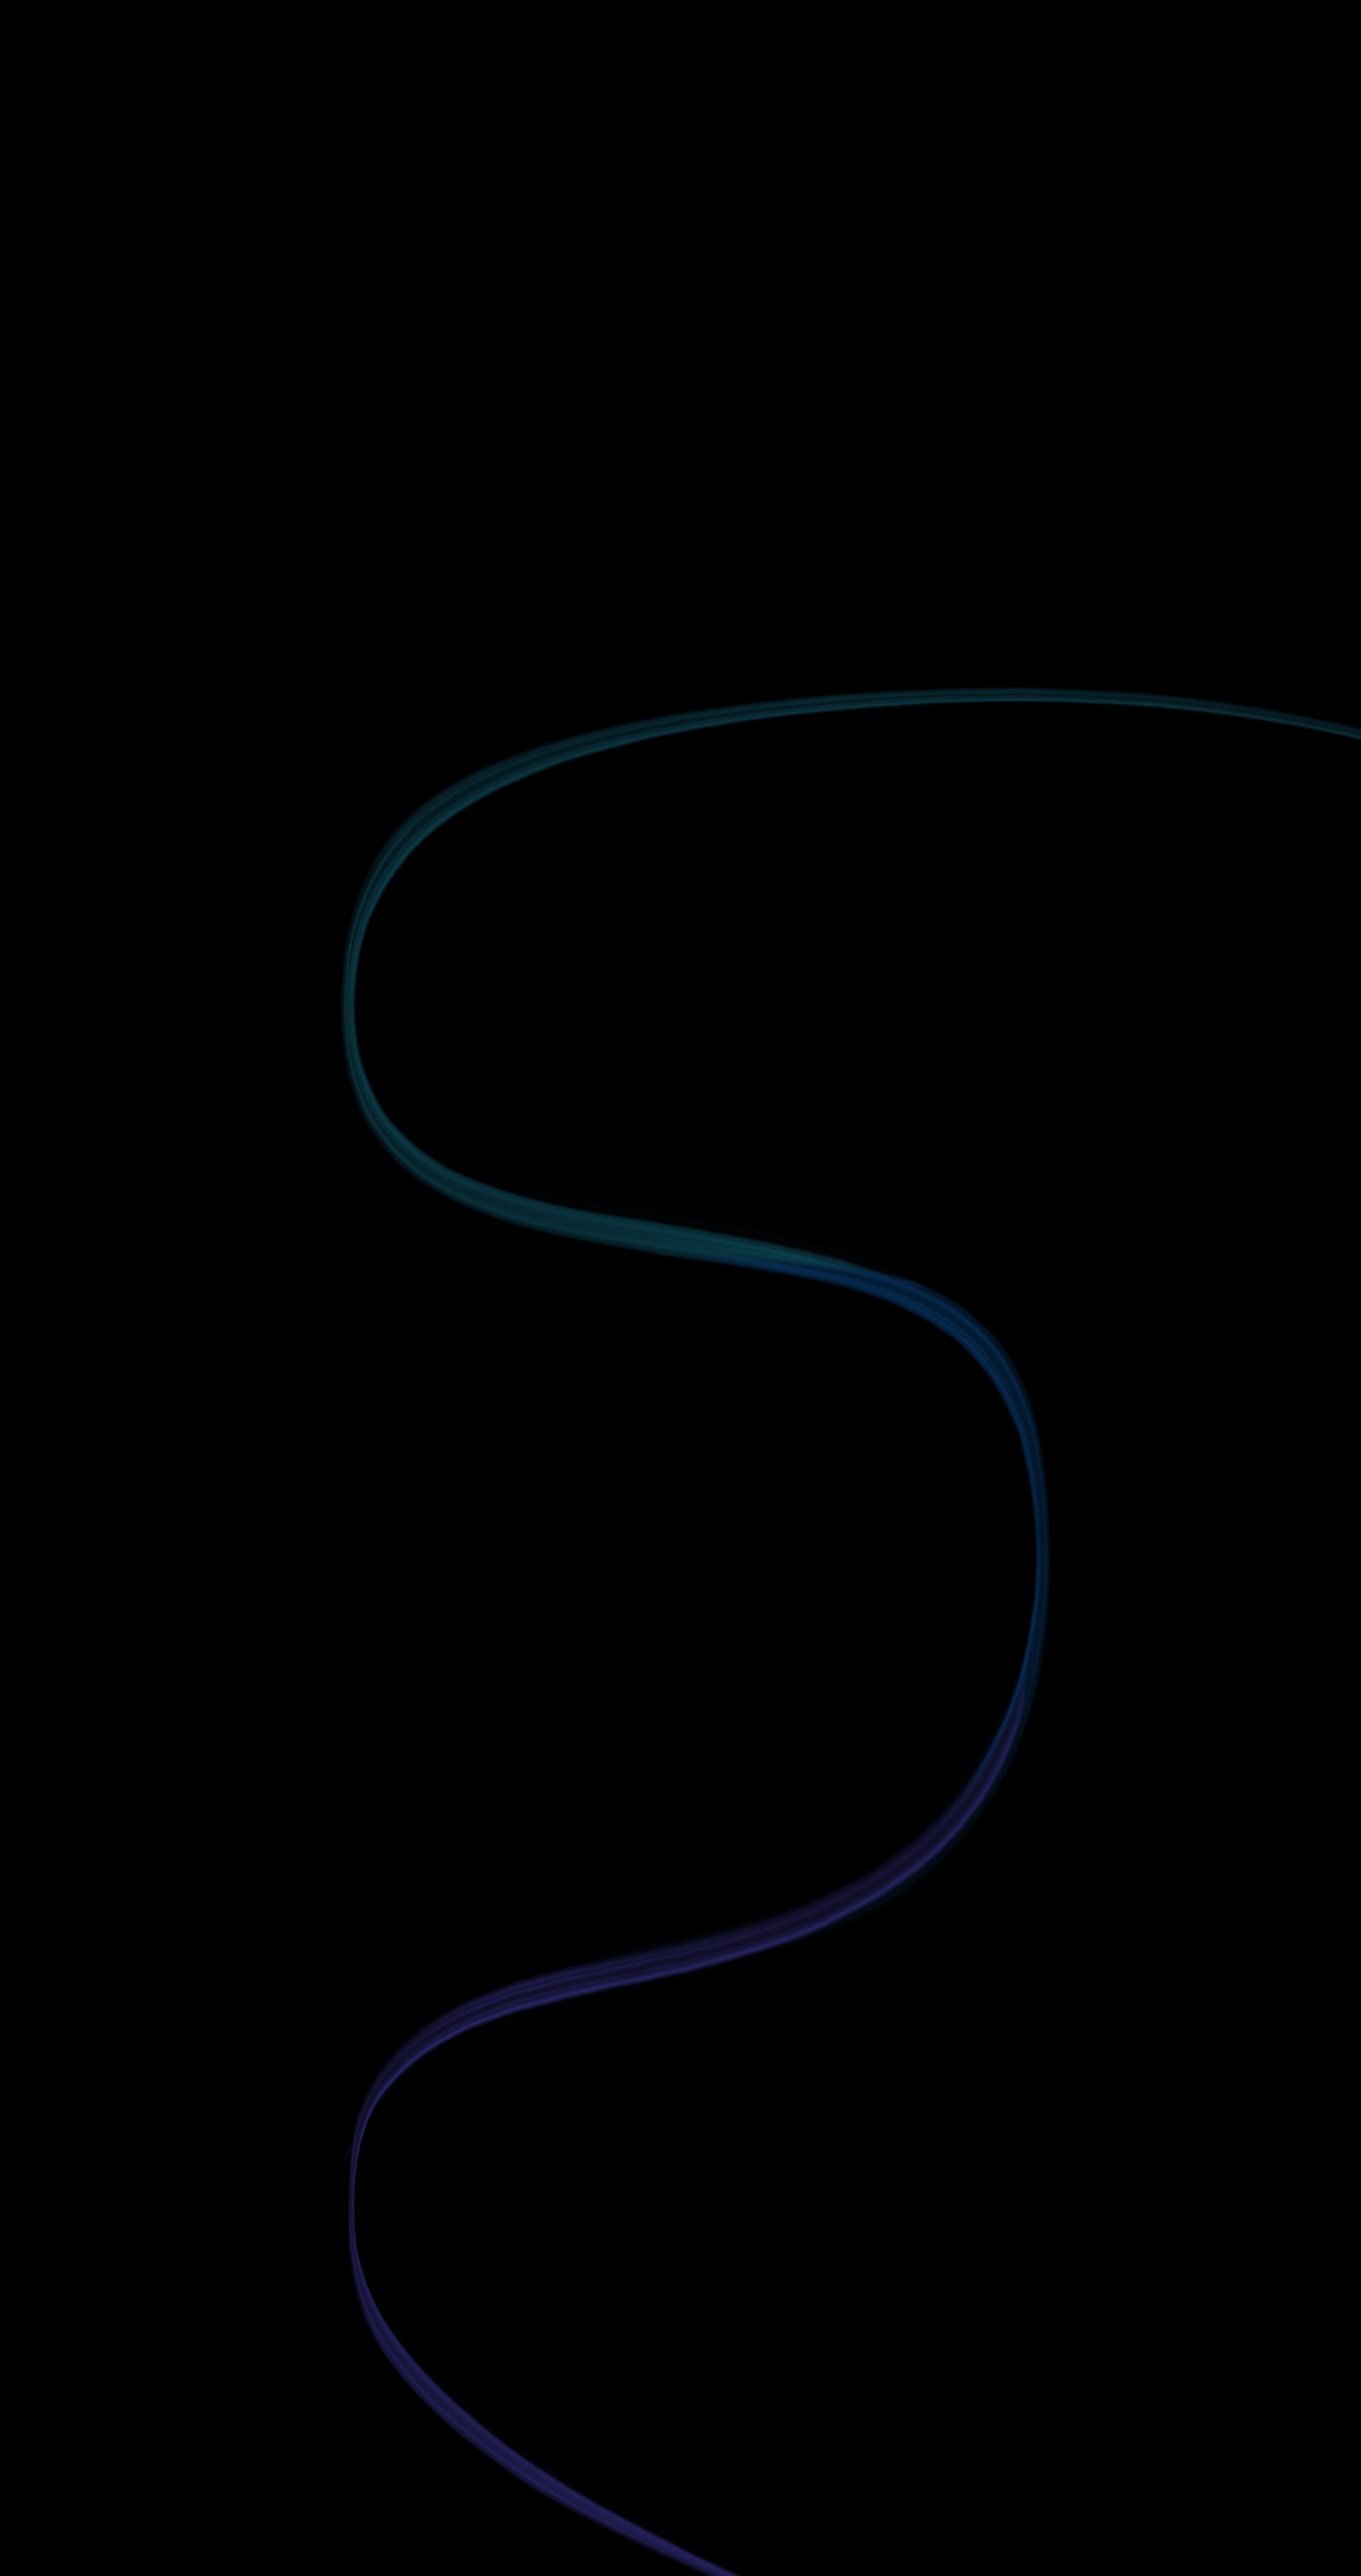
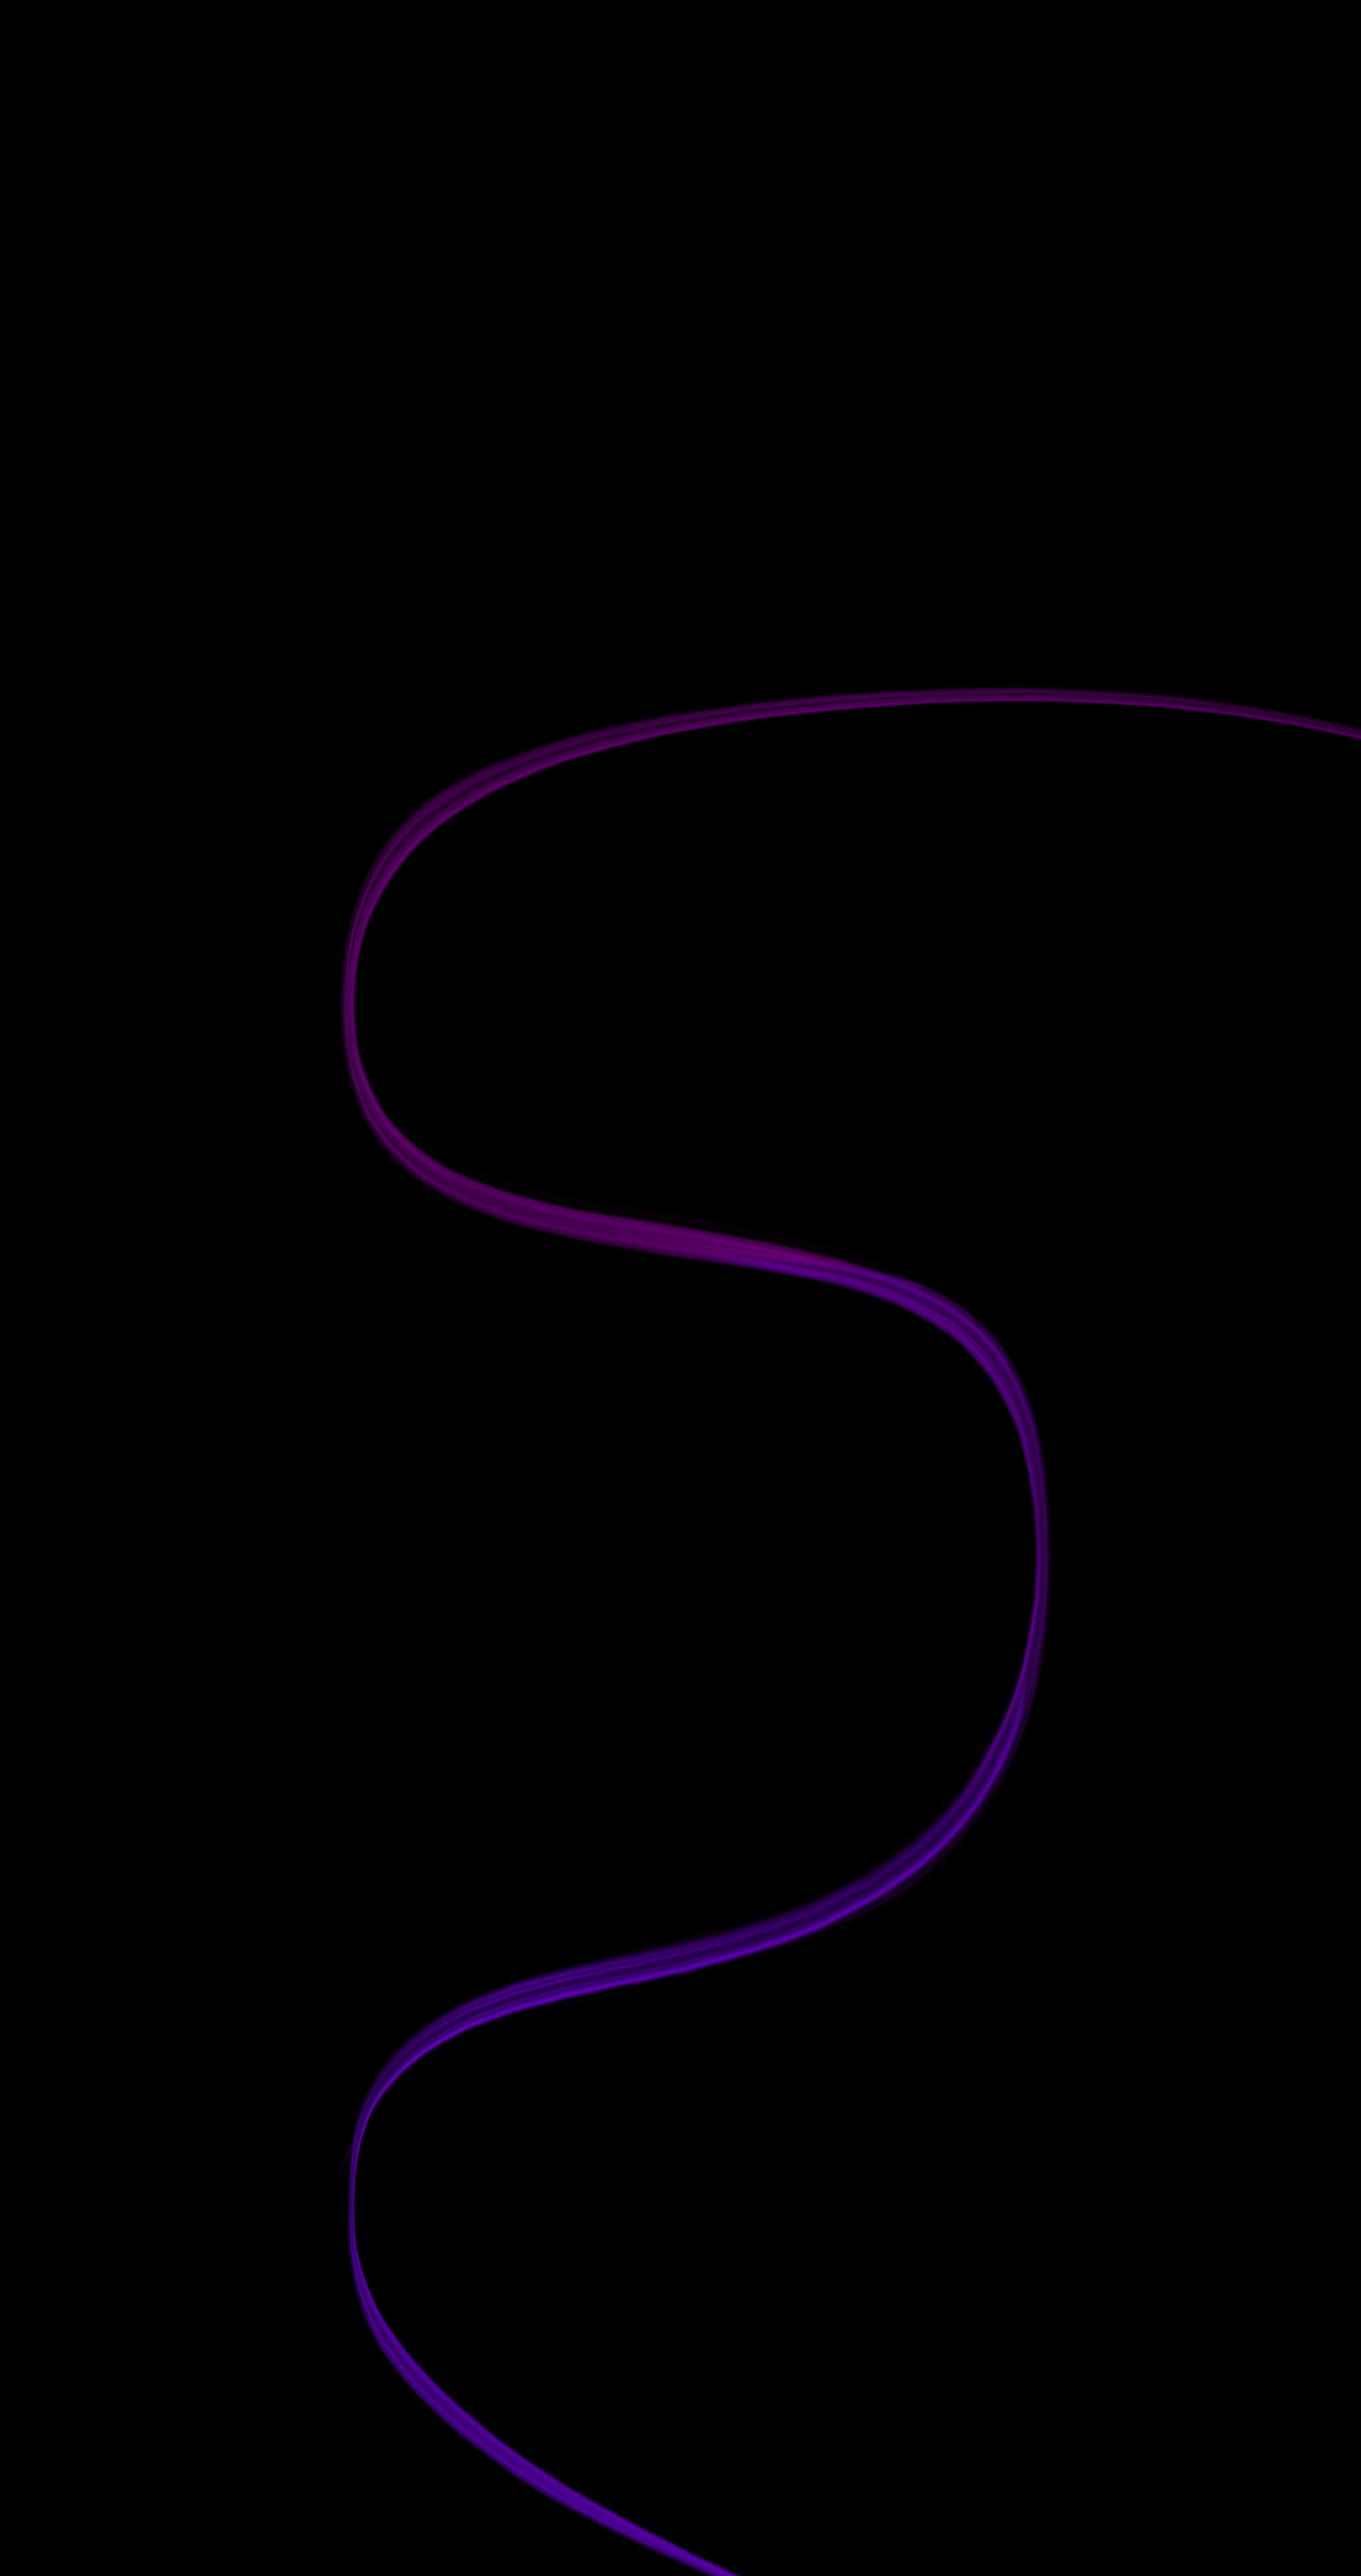
updated background and header images

diff --git a/public_html/css/styles.css b/public_html/css/styles.css
@@ -68,7 +68,9 @@ h1, h2, h3, h4, h5, p {
 	font-weight: lighter;
 }
 
-
+.link-color {
+	color: #c20bdb;
+}
 /* Call the onLoad animation for the header section*/
 @keyframes onLoad {
 	0% {
@@ -96,7 +98,7 @@ h1, h2, h3, h4, h5, p {
 
 /* set image sizes */
 .header-img {
-	width: 38vmax;
+	width: 39vmax;
 	height: auto;
 }
 
@@ -113,17 +115,17 @@ h1, h2, h3, h4, h5, p {
 		margin-right: auto;
 	}
 	.portfolio-button {
-		display: block;
+		display: grid;
 		margin-left: auto;
 		margin-right: auto;
 		width: 50%;
 	}
 	.text-left {
-		text-align: justify !important;
+		//*text-align: justify !important;*/
 	}
 	.header-img {
 		max-width: 100%;
-		width: 38vmax;
+		width: 39vmax;
 		height: auto;
 	}
 	.header-display {

diff --git a/public_html/index.php b/public_html/index.php
@@ -79,7 +79,7 @@
 			<div class="row min-vh-100">
 				<div class="col-9 col-sm-9 col-md-2 col-lg-1 col-xl-1 d-inline p-sm-0 my-auto mx-auto header-display"
 					  style="width:auto;">
-					<img class="header-img pl-2" src="images/teal-flower.jpg" alt="an image">
+					<img class="header-img pl-2" src="images/pink-flower.jpg" alt="a flower-like image">
 				</div>
 				<div class="col-11 col-sm-9 col-md-8 col-lg-4 col-xl-3 d-block p-0 mt-0 mb-5 my-md-auto mx-auto ml-md-5 ml-lg-4 ml-xl-0" style="width:auto;">
 					<h1 class="text-center text-light">Erica Tollefson</h1>
@@ -104,8 +104,8 @@
 						a passion for helping business owners reach their goals by overcoming technology obstacles. I can
 						assist businesses with technology needs from HTML, CSS, JavaScript and database needs, to WordPress
 						design and maintenance. Please connect with me on <a
-							href="https://www.linkedin.com/in/erica-tollefson-nm/" class="text-info"
-							target="_blank">LinkedIn </a>or <a href="#contact" class="text-info" target="_blank">contact
+							href="https://www.linkedin.com/in/erica-tollefson-nm/" class="link-color"
+							target="_blank">LinkedIn </a>or <a href="#contact" class="link-color" target="_blank">contact
 							me.</a></p>
 				</div>
 			</div>
